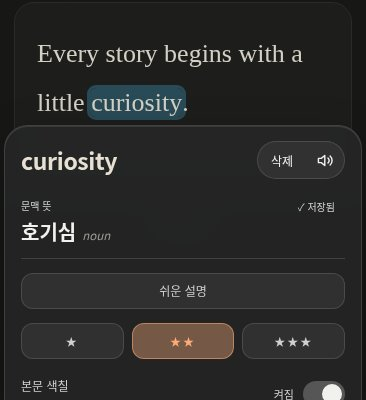
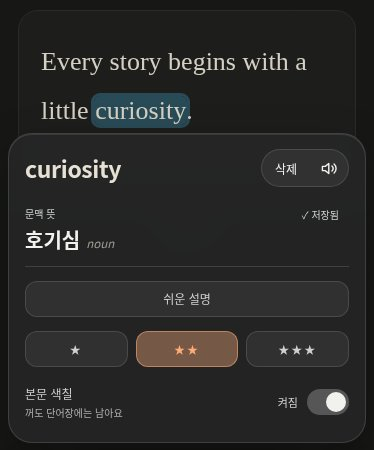
Show complete detail controls and review both themes in one video

diff --git a/docs/qa/onboarding-carousel/README.md b/docs/qa/onboarding-carousel/README.md
@@ -33,6 +33,13 @@ read/write behavior is not changed by this PR.
 
 Local Chromium onboarding and full npm tests pass. The latest source also passes
 unchanged typecheck (34 diagnostics), production boundary pins and www packaging.
+
+Visual review caught the detail scene's original y=140..540 crop cutting the
+`본문 색칠` toggle (bottom 556.39) and panel (bottom 575). The refreshed light/dark
+source crop is x=8, y=132, 374×450, ending at 582: the entire panel fits while the
+Reader dock stays outside. Capture now verifies the panel bounds against the crop.
+The final single review video includes the complete light flow followed by a
+shorter dark flow; it replaces the existing Library video as a new version.
 The full-flow video shows welcome → all seven scenes → Home at a narrow viewport
 with native-iPad capability emulated. It is a UI review, not physical-device proof.
 WebKit could not be installed locally because the download was forbidden; CI
